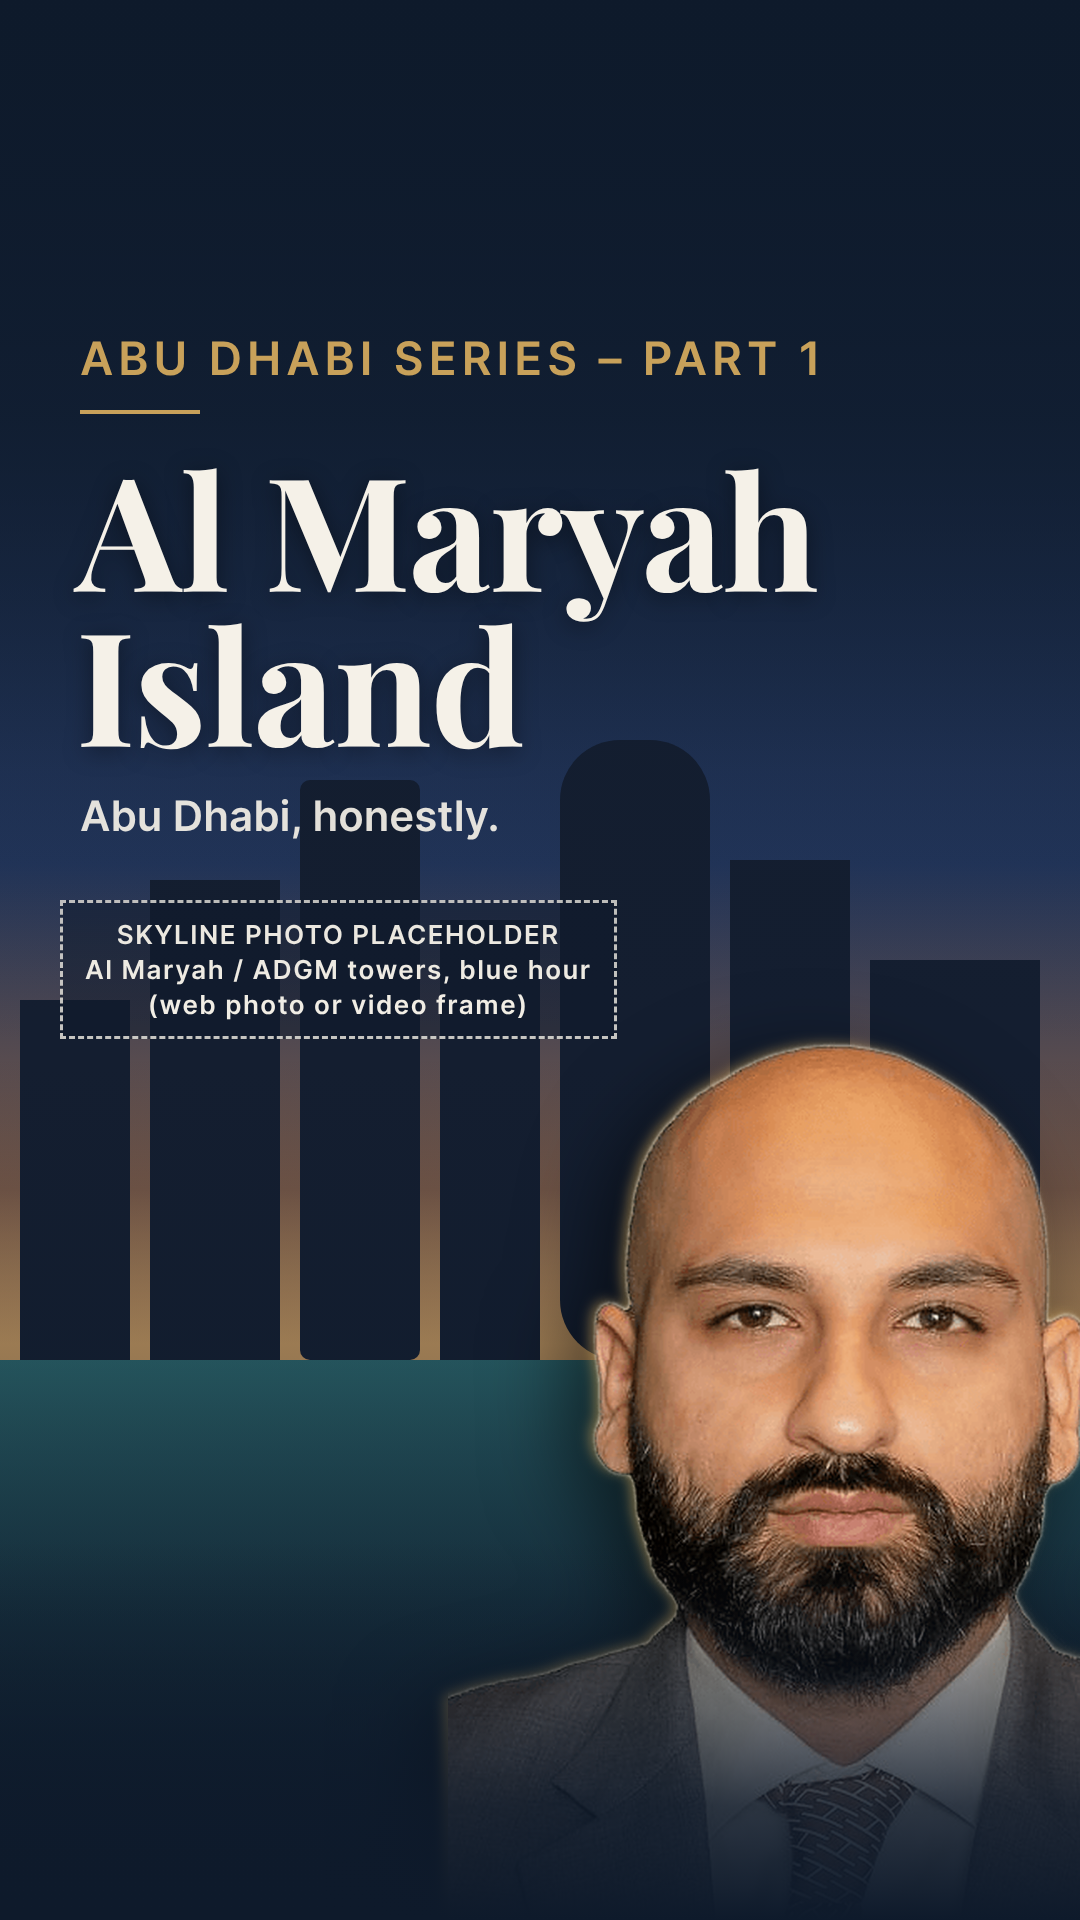
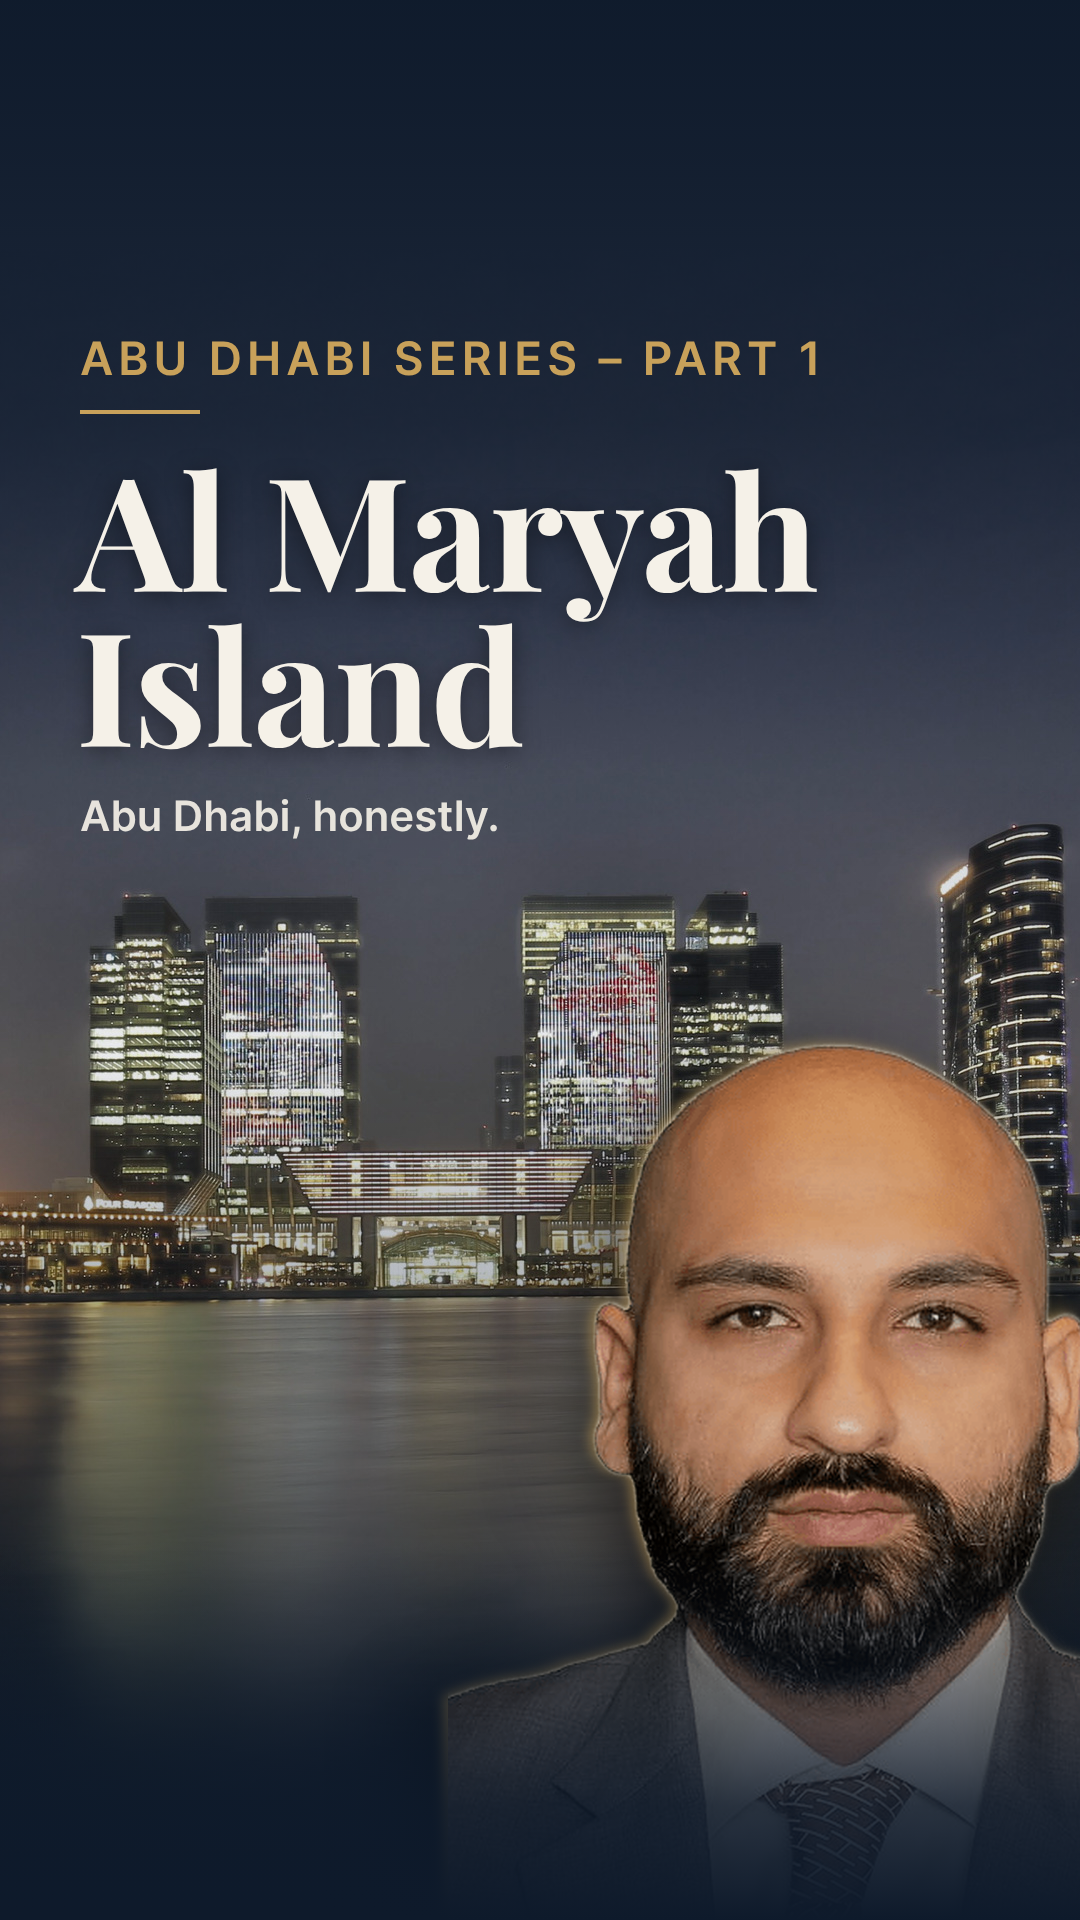
Frame: Al Maryah cover v2 A with licensed Pexels skyline
Replaces the placeholder with Naeem Alterawy's Al Maryah night photo
(Pexels License, credit optional): 9:16 crop on the ADGM towers, sky
extended, navy grade. Rayan's cut-out colour match tuned. CREDITS.md filled.

Claude-Session: https://claude.ai/code/session_01KFxVAed9PuiHM5DH74iPMP

diff --git a/thumbnails/2026-11-02-al-maryah-reel/v2/CREDITS.md b/thumbnails/2026-11-02-al-maryah-reel/v2/CREDITS.md
@@ -2,22 +2,24 @@
 
 > Every image used on the cover is logged here: source URL, author, licence and the credit line the caption needs.
 
-## Skyline photo (web)
-**Status: NOT SOURCED YET.** This cloud session's network policy blocks every free-licence photo site:
-`commons.wikimedia.org`, `upload.wikimedia.org`, `unsplash.com` / `images.unsplash.com`, `pexels.com` / `images.pexels.com`, `flickr.com`, `api.openverse.org`.
-Without opening the file page, the licence and author can't be verified, so no photo was picked. A web search found no Commons file clearly showing the Al Maryah skyline (the closest was "Abu Dhabi Skyline from Marina", not Al Maryah).
-
-To unblock: allow `commons.wikimedia.org` and `upload.wikimedia.org` (and optionally `unsplash.com`, `images.unsplash.com`, `pexels.com`, `images.pexels.com`) in the environment's network settings. Frame will then search, check the licence on the file page and fill in the table below.
+## Skyline photo (web): USED in v2 A
+Sourced and approved by Rayan via the CEO Agent (originals + `CREDITS.txt` in `inputs/2026-11-02-al-maryah/web-skyline/` at the repo root).
 
 | Field | Value |
 |---|---|
-| File | — |
-| Source URL | — |
-| Author | — |
-| Licence | — (accept CC0, CC BY, CC BY-SA, Unsplash Licence, Pexels Licence only) |
-| Attribution needed? | — |
-| Caption credit line | — |
-| Changes made | Cropped to 9:16, darkened with gradients (to note for CC BY-SA) |
+| File | `al-maryah-night-waterfront_pexels-naeem-alterawy-16136072.jpeg` (5760×3840) |
+| Source URL | https://www.pexels.com/photo/a-city-by-the-river-in-the-evening-16136072/ |
+| Author | Naeem Alterawy (Pexels) |
+| Licence | Pexels License (https://www.pexels.com/license/): free for commercial use |
+| Attribution needed? | **No** (optional) |
+| Caption credit line (optional) | Photo by Naeem Alterawy on Pexels |
+| Changes made | Vertical 9:16 crop centred on the ADGM towers; night sky extended upward with a matching dark gradient (no buildings added or changed); slight desaturation and navy grade; text and Rayan's cut-out composited on top. Prepared file: `inputs/skyline-web-a-naeem-1080x1920.jpg` |
+
+### Candidates not used
+| File | Licence | Why not |
+|---|---|---|
+| `al-maryah-lightning-night_pexels-eslam-mohammed-abdelmaksoud-28718190.jpeg` | Pexels License, credit optional | Stormy and dramatic, which is off-brand for "calm, not hype". A 9:16 crop can't hold both the lightning and the towers. |
+| `al-maryah-day-waterfront_wikimedia-mavariz-cc-by-sa-4.0.jpg` | CC BY-SA 4.0, **credit required, share-alike** | Daytime (series look is blue hour/night). Share-alike would make the cover CC BY-SA and require the credit, so avoid it for commercial use. If it's ever used, the caption must carry: "Al Mariah Island- Abudhabi" by MAVARIZ, CC BY-SA 4.0 <https://creativecommons.org/licenses/by-sa/4.0/>, via Wikimedia Commons |
 
 ## Rayan's photo
 Rayan's own photos, supplied by him (`inputs/2026-11-02-al-maryah/` at the repo root). No credit needed.

diff --git a/thumbnails/2026-11-02-al-maryah-reel/v2/README.md b/thumbnails/2026-11-02-al-maryah-reel/v2/README.md
@@ -1,16 +1,18 @@
 # Al Maryah Reel Cover v2: Presenter Style (Rayan + Skyline)
 
-> Frame · 2026-11-02 · Status: **v2 A built with Rayan's cut-out. The skyline is still a placeholder** (web photo sites are blocked from this session; the video frame isn't uploaded yet). Free tools only. Nothing posted.
+> Frame · 2026-11-02 · Status: **v2 A FINAL DRAFT for Rayan:** licensed Pexels skyline (Naeem Alterawy, credit optional) + Rayan's headshot cut-out. Variant B (video frame) waits for the video. Free tools only. Nothing posted.
 
 ## Latest
-- **`ig-cover-v2-A-1080x1920.png`**: Rayan's headshot cut-out (background removed offline, 2x Lanczos upscale + light sharpen, colour-matched, gold edge light, shadow) over the placeholder skyline. Render: `node render.js --person inputs/rayan-headshot-cutout.png --ph 1000 --pright -150 --bg <skyline> --out ig-cover-v2-A-1080x1920.png`
+- **`ig-cover-v2-A-1080x1920.png`**: Rayan's headshot cut-out (background removed offline, 2x Lanczos upscale + light sharpen, colour-matched, gold edge light, shadow) over the licensed Al Maryah night skyline (`inputs/skyline-web-a-naeem-1080x1920.jpg`: 9:16 crop on the ADGM towers, sky extended upward, navy grade). Render: `node render.js --bg inputs/skyline-web-a-naeem-1080x1920.jpg --person inputs/rayan-headshot-cutout.png --ph 1000 --pright -150 --bright 0.86 --sat 0.88 --warm 0.03 --out ig-cover-v2-A-1080x1920.png`
+- **No variant C:** the other two web photos didn't fit (stormy lightning shot; daytime CC BY-SA shot needs a credit and share-alike). See `CREDITS.md`.
 - **`cutout-comparison-headshot-vs-awards.jpg`**: both of Rayan's photos tried. **Headshot chosen:** it's sharp at full size (face ≈ 260 px wide in the source). The awards photo had to be cropped above the trophy plaque, which carries Emaar/award text, leaving a face only ≈ 80 px wide. At cover size it's visibly soft, with JPEG blocking and a light halo from the glowing ring behind. No Emaar logo or award-wall text survives in either cut-out.
 - **Best next photo:** a sharper, waist-up shot turned slightly left (spec below) would beat both. The headshot is front-facing and only 600 px tall.
 
 ## What's here
 | File | What |
 |---|---|
-| `ig-cover-v2-A-1080x1920.png` | **v2 A:** Rayan cut-out + skyline placeholder |
+| `ig-cover-v2-A-1080x1920.png` | **v2 A:** Rayan cut-out + licensed web skyline |
+| `inputs/skyline-web-a-naeem-1080x1920.jpg` | Prepared 9:16 skyline background |
 | `cutout-comparison-headshot-vs-awards.jpg` | Headshot vs awards-photo cut-out, side by side |
 | `inputs/rayan-*-cutout.png` | Transparent cut-outs ready to reuse |
 | `ig-cover-v2-placeholder-1080x1920.png` | Layout preview with placeholders for the skyline and for Rayan |
